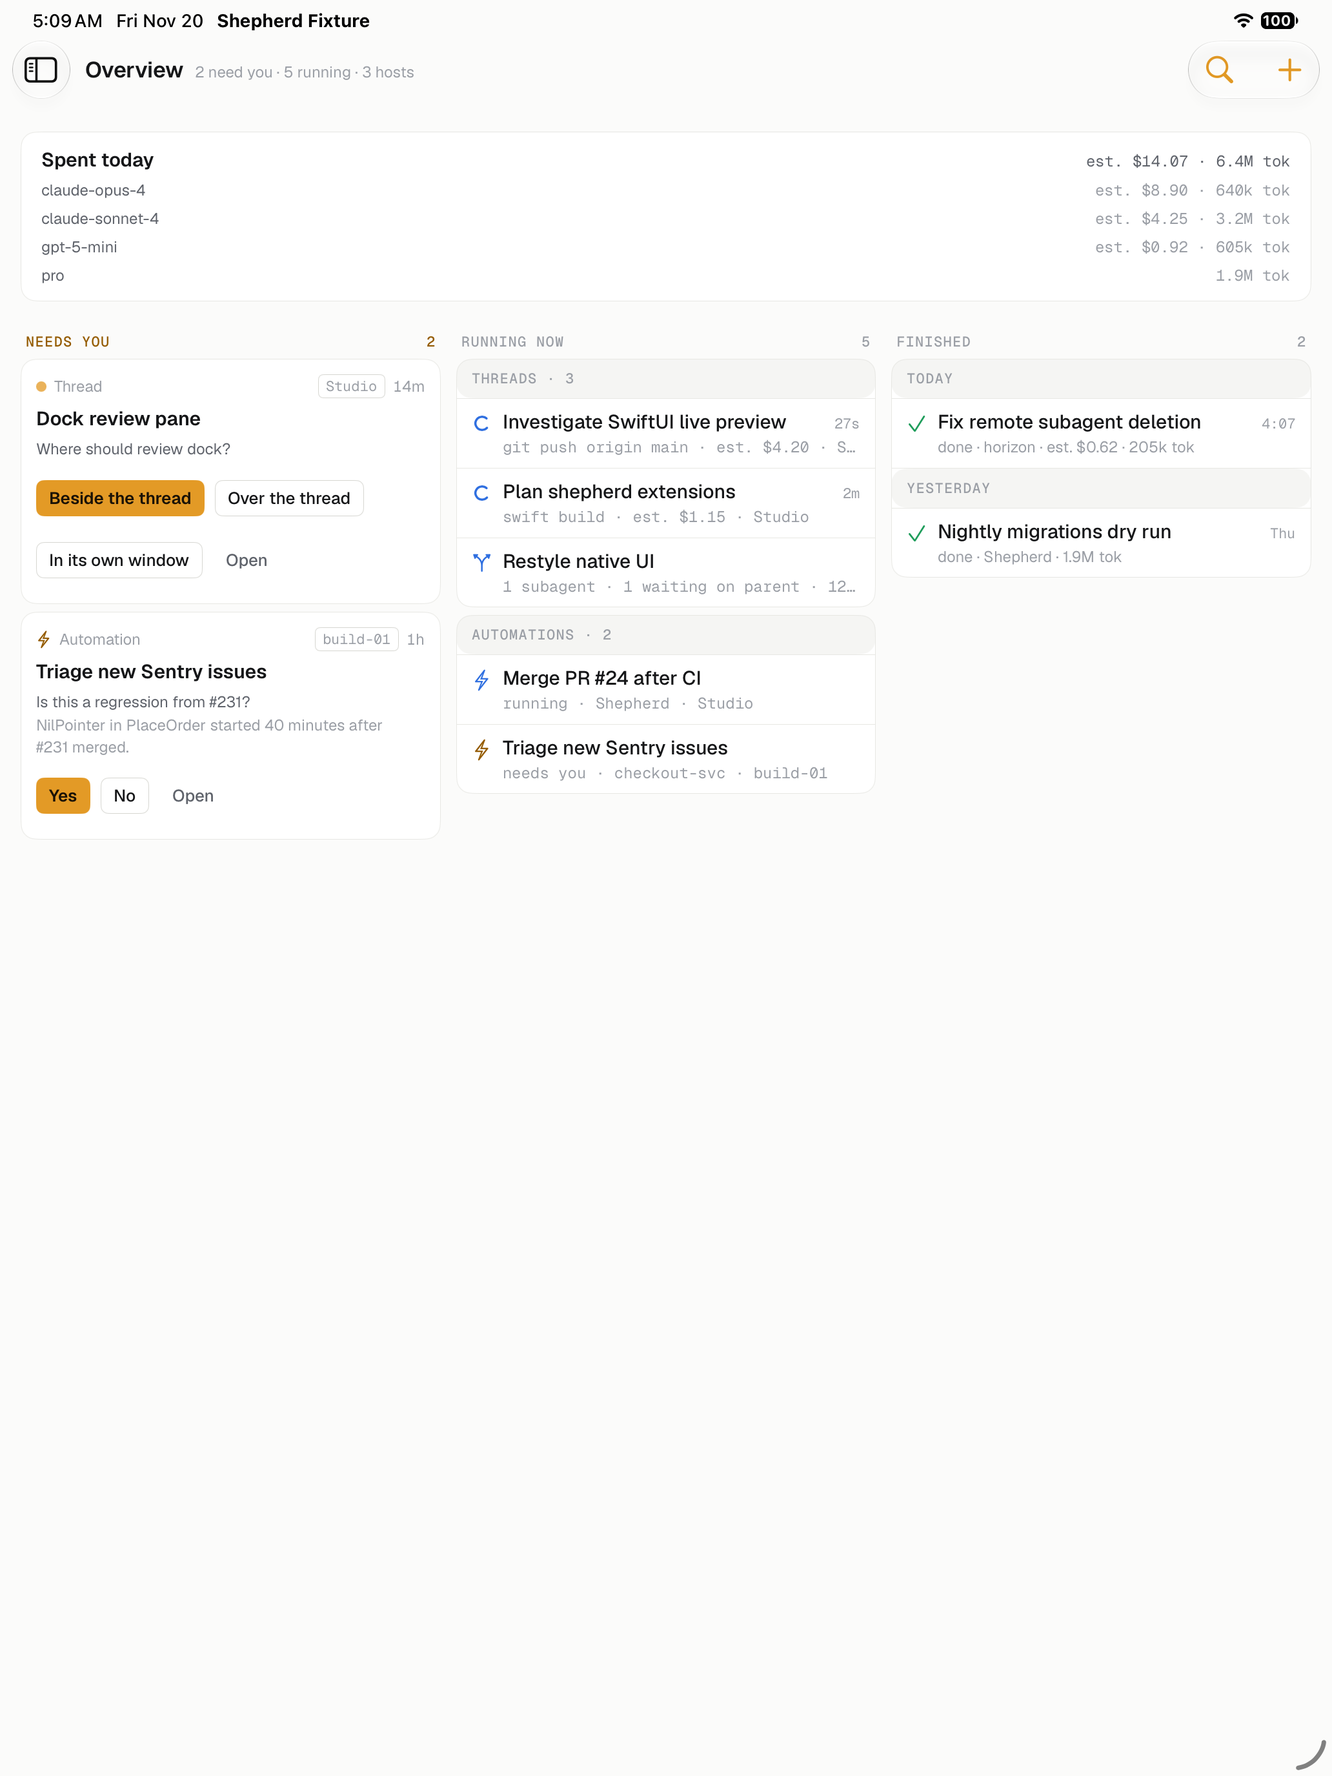
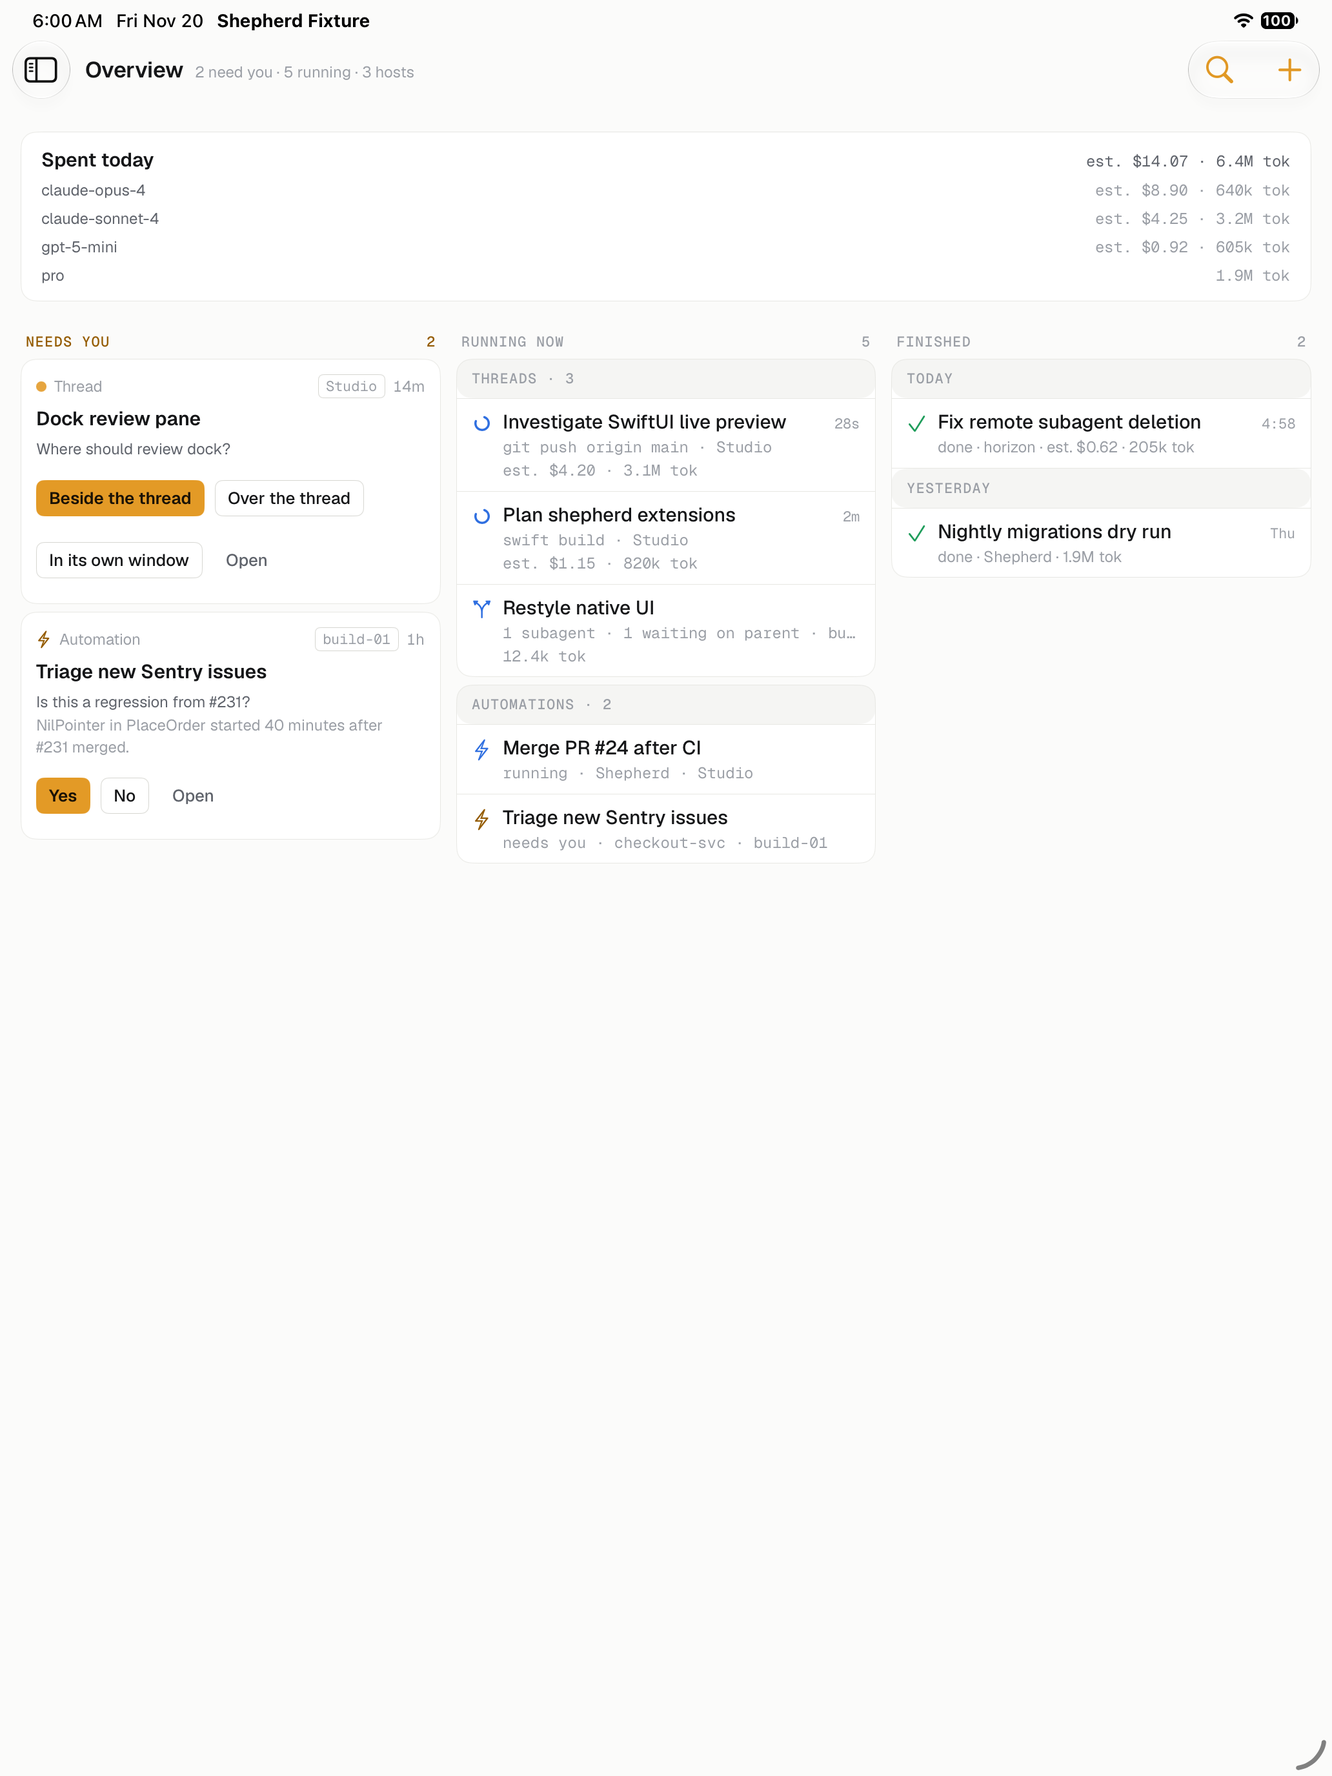
fix: count a subagent run that started and finished today, give spend its own line on iOS rows

Changed region(s): [[0.3411, 0.25, 0.5581, 0.4688]]

diff --git a/Packages/ShepherdUI/Sources/ShepherdUI/Components/Fleet/FleetParts.swift b/Packages/ShepherdUI/Sources/ShepherdUI/Components/Fleet/FleetParts.swift
@@ -139,6 +139,8 @@ public struct SHListRow: View, Equatable {
     let subtitle: String?
     let subtitleMono: Bool
     let subtitleTone: AgentState?
+    /// What the thread spent, on a line of its own under the status line.
+    let spend: String?
     let clock: SHRowClock?
     let leading: Leading
     let trailing: Trailing
@@ -153,12 +155,13 @@ public struct SHListRow: View, Equatable {
     /// moves the content in while the row (and its selection) keeps the full width (the iPad
     /// sidebar's More sub-rows).
     public init(_ title: String, subtitle: String? = nil, subtitleMono: Bool = true, subtitleTone: AgentState? = nil,
-                clock: SHRowClock? = nil, leading: Leading = .none, trailing: Trailing = .none, chevron: Bool = true,
+                spend: String? = nil, clock: SHRowClock? = nil, leading: Leading = .none, trailing: Trailing = .none, chevron: Bool = true,
                 selected: Bool = false, dimmed: Bool = false, compact: Bool = false, indent: CGFloat = 0) {
         self.title = title
         self.subtitle = subtitle
         self.subtitleMono = subtitleMono
         self.subtitleTone = subtitleTone
+        self.spend = spend
         self.clock = clock
         self.leading = leading
         self.trailing = trailing
@@ -170,7 +173,7 @@ public struct SHListRow: View, Equatable {
     }
 
     public nonisolated static func == (a: SHListRow, b: SHListRow) -> Bool {
-        a.title == b.title && a.subtitle == b.subtitle && a.subtitleMono == b.subtitleMono && a.subtitleTone == b.subtitleTone
+        a.title == b.title && a.subtitle == b.subtitle && a.subtitleMono == b.subtitleMono && a.subtitleTone == b.subtitleTone && a.spend == b.spend
             && a.clock == b.clock && a.leading == b.leading && a.trailing == b.trailing && a.chevron == b.chevron
             && a.selected == b.selected && a.dimmed == b.dimmed && a.compact == b.compact && a.indent == b.indent
     }
@@ -190,6 +193,10 @@ public struct SHListRow: View, Equatable {
                     statusLine
                         .font(subtitleMono ? .sh(.mono) : .sh(.caption))
                         .foregroundStyle(subtitleTone?.textColor ?? sh.textTertiary)
+                        .lineLimit(typeSize.isAccessibilitySize ? SHListMetrics.accessibilityStatusLines : 1)
+                }
+                if let spend {
+                    Text(spend).font(.sh(.mono)).foregroundStyle(sh.textTertiary)
                         .lineLimit(typeSize.isAccessibilitySize ? SHListMetrics.accessibilityStatusLines : 1)
                 }
                 // At accessibility sizes the accessory goes under the title, which keeps its width.
@@ -334,15 +341,18 @@ public struct SHOverviewRow: View, Equatable {
     let title: String
     let detail: String
     let detailMono: Bool
+    /// What the thread spent, on a line of its own under the detail.
+    let spend: String?
     let leading: SHListRow.Leading
     let time: Time
     let dimmed: Bool
 
-    public init(_ title: String, detail: String, detailMono: Bool = true, leading: SHListRow.Leading, time: Time = .none,
+    public init(_ title: String, detail: String, detailMono: Bool = true, spend: String? = nil, leading: SHListRow.Leading, time: Time = .none,
                 dimmed: Bool = false) {
         self.title = title
         self.detail = detail
         self.detailMono = detailMono
+        self.spend = spend
         self.leading = leading
         self.time = time
         self.dimmed = dimmed
@@ -362,6 +372,7 @@ public struct SHOverviewRow: View, Equatable {
                         .lineLimit(1).fixedSize()
                 }
                 Text(detail).font(detailMono ? .sh(.mono) : .sh(.caption)).foregroundStyle(sh.textTertiary).lineLimit(1)
+                if let spend { Text(spend).font(.sh(.mono)).foregroundStyle(sh.textTertiary).lineLimit(1) }
             }
         }
         .padding(.horizontal, SH.Space.l)

diff --git a/Sources/ShepherdCore/Spend.swift b/Sources/ShepherdCore/Spend.swift
@@ -39,15 +39,18 @@ public struct ChildUsage: Hashable, Sendable {
     public var model: String?
     public var tokens: Int?
     public var cost: Double?
-    /// The run has ended: seen for the first time, it is history rather than today's work.
+    /// The run has ended: seen for the first time, it is history unless it started today.
     public var finished: Bool
+    /// When the run started; nil when unknown, which a finished run's first sighting reads as history.
+    public var startedAt: Date?
 
-    public init(id: String, model: String?, tokens: Int?, cost: Double?, finished: Bool) {
+    public init(id: String, model: String?, tokens: Int?, cost: Double?, finished: Bool, startedAt: Date? = nil) {
         self.id = id
         self.model = model
         self.tokens = tokens
         self.cost = cost
         self.finished = finished
+        self.startedAt = startedAt
     }
 }
 
@@ -136,15 +139,17 @@ public struct AgentSpend: Codable, Hashable, Sendable {
     }
 
     /// The spend after the subagent runs' usage as the extension last published it: what each grew by since it was last seen
-    /// joins today, under the model the run uses. A run's first sighting counts whole while it runs and as history once it has
-    /// finished (it is a run from before this host knew the thread). Nothing is recorded before the thread's own baseline.
+    /// joins today, under the model the run uses. A run's first sighting counts whole while it runs, or when it has finished but
+    /// started today (it ran and ended between two publishes); a finished run from an earlier day is history (it is from before this
+    /// host knew the thread). Nothing is recorded before the thread's own baseline.
     public static func addingChildren(_ previous: AgentSpend?, _ runs: [ChildUsage], day: String, zone: String? = nil) -> AgentSpend? {
         guard var spend = previous else { return nil }
         spend.start(day, zone)
         for run in runs {
             guard let tokens = run.tokens else { continue }
             let known = spend.children[run.id]
-            if known != nil || !run.finished {
+            let startedToday = run.startedAt.map { SpendDay.key($0, zone: zone) == day } ?? false
+            if known != nil || !run.finished || startedToday {
                 let before = known ?? ChildSpend(tokens: 0, cost: nil)
                 spend.add(model: run.model, tokens: max(0, tokens - before.tokens), cost: run.cost.map { max(0, $0 - (before.cost ?? 0)) })
             }
@@ -316,12 +321,6 @@ public enum SpendFormat {
     /// A thread's whole session, for its sidebar row; nil while unknown.
     public static func line(_ spend: AgentSpend?) -> String? {
         spend.flatMap { line(tokens: $0.totalTokens, cost: $0.totalCost) }
-    }
-
-    /// The cost alone ("est. $4.20"), or the tokens when the thread has no cost: for a line with little room.
-    public static func brief(_ spend: AgentSpend?) -> String? {
-        guard let spend else { return nil }
-        return (spend.totalCost ?? 0) > 0 ? line(tokens: nil, cost: spend.totalCost) : line(tokens: spend.totalTokens, cost: nil)
     }
 
     /// A day's total, for a page header; nil when nothing was spent.

diff --git a/Sources/ShepherdRemote/Fleet.swift b/Sources/ShepherdRemote/Fleet.swift
@@ -207,18 +207,13 @@ public struct FleetThreadRow: Identifiable, Equatable, Sendable {
     public var design: FleetDesign?
     /// What the thread spent, as "est. $4.20 · 3.1M tok" (tokens alone with no cost); nil while unknown (`SpendFormat`).
     public var spend: String?
-    /// The same for a line with little room, a running thread's: the cost alone ("est. $4.20"), or the tokens when there is none.
-    public var spendBrief: String?
 
     public var id: FleetRef { ref }
 
     /// What a running thread does now, under its title in the overview (iPadOverview): the call
     /// running now, else its live subagents ("3 subagents · 1 waiting on parent"), with the host when
     /// rows from several hosts mix ("swift build · This Mac"); "running" when nothing says more.
-    public var now: String { running(withSpend: false) }
-
-    /// `now`, with what the thread spent (briefly) before the host, which is what gets cut when the line is long.
-    public func running(withSpend: Bool) -> String {
+    public var now: String {
         var parts: [String] = []
         if let activity {
             parts.append(activity)
@@ -226,14 +221,13 @@ public struct FleetThreadRow: Identifiable, Equatable, Sendable {
             parts.append(nativeCount(subagents, "subagent"))
             if subagentsAsking > 0 { parts.append("\(subagentsAsking) waiting on parent") }
         }
-        if withSpend, let spendBrief { parts.append(spendBrief) }
         if let hostTag { parts.append(hostTag) }
         return parts.isEmpty ? FleetModel.statusWord(status) : parts.joined(separator: " · ")
     }
 
     /// `line` with what the thread spent after it ("Running python · est. $4.20 · 3.1M tok"), as every row says its spend.
-    public func saying(spendAfter line: String, brief: Bool = false) -> String {
-        (brief ? spendBrief : spend).map { "\(line) · \($0)" } ?? line
+    public func saying(spendAfter line: String) -> String {
+        spend.map { "\(line) · \($0)" } ?? line
     }
 
     /// When it last moved (ms since epoch), for a finished thread's time and day.
@@ -630,7 +624,6 @@ public struct FleetModel: Equatable, Sendable {
         row.result = digest?.result
         row.session = digest?.session
         row.spend = SpendFormat.line(agent.spend)
-        row.spendBrief = SpendFormat.brief(agent.spend)
         return row
     }
 

diff --git a/Tests/ShepherdCoreUnitTests/SpendTests.swift b/Tests/ShepherdCoreUnitTests/SpendTests.swift
@@ -130,6 +130,24 @@ struct SpendTests {
         #expect(spend.today.map(\.tokens) == [160])
     }
 
+    @Test func aRunThatStartedAndFinishedTodayCountsOnceAndOneFromBeforeIsHistory() throws {
+        let sunday = Self.noon(Self.monday).addingTimeInterval(-86_400)
+        func run(_ id: String, startedAt: Date?) -> ChildUsage {
+            ChildUsage(id: id, model: "b/helper", tokens: 300, cost: 0.3, finished: true, startedAt: startedAt)
+        }
+        var spend = try #require(AgentSpend.updated(nil, tokens: 1_000, cost: 1, model: "a/one", day: Self.monday, zone: "UTC"))
+        // First reported already finished: it ran between two publishes, so it is today's work, once however often it is replayed.
+        for _ in 0..<3 {
+            spend = try #require(AgentSpend.addingChildren(spend, [run("new", startedAt: Self.noon(Self.monday))], day: Self.monday, zone: "UTC"))
+        }
+        #expect(spend.today.map(\.tokens) == [300])
+        #expect(abs((spend.today.first?.cost ?? 0) - 0.3) < 1e-9)
+        // Restored history (started the day before, or with no start known) still adds nothing.
+        spend = try #require(AgentSpend.addingChildren(spend, [run("old", startedAt: sunday), run("unknown", startedAt: nil)], day: Self.monday, zone: "UTC"))
+        #expect(spend.today.map(\.tokens) == [300])
+        #expect(spend.totalTokens == 1_900)
+    }
+
     @Test func aNewSessionForgetsTheOldSessionsSubagents() throws {
         var spend = try #require(AgentSpend.updated(nil, tokens: 1_000, cost: 1, model: "a/one", day: Self.monday, sessionID: "s1"))
         spend = try #require(AgentSpend.addingChildren(spend, [Self.run("r1", tokens: 300, cost: 0.3)], day: Self.monday))
@@ -228,9 +246,6 @@ struct SpendTests {
         #expect(SpendFormat.line(tokens: 0, cost: 0.001) == "est. <$0.01")
         #expect(SpendFormat.line(tokens: 0, cost: nil) == nil)
         #expect(SpendFormat.line(nil as AgentSpend?) == nil)
-        #expect(SpendFormat.brief(AgentSpend(tokens: 3_100_000, cost: 4.2, day: Self.monday)) == "est. $4.20")
-        #expect(SpendFormat.brief(AgentSpend(tokens: 12_400, cost: nil, day: Self.monday)) == "12.4k tok")
-        #expect(SpendFormat.brief(nil) == nil)
         #expect(SpendFormat.modelName("anthropic/claude-sonnet-4") == "claude-sonnet-4")
         #expect(SpendFormat.modelName(nil) == "Unknown model")
     }

diff --git a/App/iOS/Home/HomeRows.swift b/App/iOS/Home/HomeRows.swift
@@ -85,7 +85,7 @@ struct ThreadRow: View, Equatable {
     var body: some View {
         // The sidebar says a failed last turn (iPadThreadError): a failed dot and "failed".
         let failed = compact && row.failed
-        SHListRow(row.title, subtitle: compact ? nil : row.inboxLine, clock: compact ? nil : row.clock?.rowClock,
+        SHListRow(row.title, subtitle: compact ? nil : row.inboxLine, spend: compact ? nil : row.runningSpend, clock: compact ? nil : row.clock?.rowClock,
                   leading: row.design != nil ? .symbol("pencil.tip") : .state(failed ? .failed : AgentState(row.status)),
                   trailing: failed ? .meta("failed") : compact ? .none : row.hostTag.map { .host($0) } ?? .none,
                   chevron: false, selected: selected, dimmed: row.offline, compact: compact)
@@ -99,10 +99,13 @@ extension FleetThreadRow {
     /// "Thinking"), else the repo it works in, else what the host says of it, then what it spent.
     var inboxLine: String {
         if design != nil { return detail }
-        // A running thread's line is the busy one: its spend is the cost alone.
-        if status == .working, !offline { return saying(spendAfter: doing ?? place ?? detail, brief: true) }
+        // A running thread's line is the busy one (what it does, and a clock): its spend gets its own line.
+        if status == .working, !offline { return doing ?? place ?? detail }
         return saying(spendAfter: place ?? detail)
     }
+
+    /// A running thread's spend, drawn under its line.
+    var runningSpend: String? { design == nil && status == .working && !offline ? spend : nil }
 }
 
 /// Something waiting on you, as one row (Home's preview, the sidebar).

diff --git a/Tests/ShepherdSessionsIntegrationTests/SpendRecordingTests.swift b/Tests/ShepherdSessionsIntegrationTests/SpendRecordingTests.swift
@@ -81,10 +81,16 @@ struct SpendRecordingTests {
             host.server.recordChildSpend(agentID: id, runs: [run(300, 0.3)], now: monday)
             host.server.recordChildSpend(agentID: id, runs: [run(700, 0.7, state: "complete")], now: monday)
             host.server.recordChildSpend(agentID: id, runs: [run(700, 0.7, state: "complete")], now: monday)
+            // A run that started today and was first seen finished counts once; one that started yesterday is history.
+            let today = ChildRun(runID: "native-2", label: "worker: lint", state: "complete", startedAt: monday.timeIntervalSince1970 * 1000 - 60_000,
+                                 model: "acme/helper", tokens: 40, cost: 0.04)
+            let before = ChildRun(runID: "native-3", label: "worker: old", state: "complete", startedAt: monday.timeIntervalSince1970 * 1000 - 86_400_000,
+                                  model: "acme/helper", tokens: 9_000, cost: 9)
+            for _ in 0..<2 { host.server.recordChildSpend(agentID: id, runs: [run(700, 0.7, state: "complete"), today, before], now: monday) }
         }
         let recorded = try #require(spend())
-        #expect(recorded.today.first { $0.model == "acme/helper" }?.tokens == 700)
-        #expect(recorded.totalTokens == 1_700)
-        #expect(abs((recorded.totalCost ?? 0) - 1.7) < 1e-9)
+        #expect(recorded.today.first { $0.model == "acme/helper" }?.tokens == 740)
+        #expect(recorded.totalTokens == 10_740)
+        #expect(abs((recorded.totalCost ?? 0) - 10.74) < 1e-9)
     }
 }

diff --git a/Tests/ShepherdRemoteUnitTests/FleetOverviewTests.swift b/Tests/ShepherdRemoteUnitTests/FleetOverviewTests.swift
@@ -164,14 +164,10 @@ struct FleetSpendTodayTests {
         let unspent = rows.first { $0.ref.agent.rawValue == "none" }
         #expect(spent?.spend == "est. $4.20 · 3.1M tok")
         #expect(spent?.saying(spendAfter: "done · acme-web") == "done · acme-web · est. $4.20 · 3.1M tok")
-        #expect(spent?.spendBrief == "est. $4.20", "a line with little room says the cost alone")
-        #expect(spent?.saying(spendAfter: "Pushing", brief: true) == "Pushing · est. $4.20")
         #expect(unspent != nil && unspent?.spend == nil)
         #expect(unspent?.saying(spendAfter: "done") == "done")
         var running = FleetOverviewTests.row("one", activity: "swift build", host: "Studio")
-        #expect(running.running(withSpend: true) == "swift build · Studio")
-        running.spendBrief = "est. $4.20"
-        #expect(running.running(withSpend: true) == "swift build · est. $4.20 · Studio")
-        #expect(running.now == "swift build · Studio", "without the spend, as before")
+        running.spend = "12.4k tok"
+        #expect(running.now == "swift build · Studio", "a running row's spend is its own line, not part of this one")
     }
 }

diff --git a/Sources/ShepherdSessions/SessionServer.swift b/Sources/ShepherdSessions/SessionServer.swift
@@ -7174,7 +7174,8 @@ public final class SessionServer: @unchecked Sendable {
     /// cost of its own messages, not the history a fork inherited) joins the thread's spend once, by what each run grew by.
     func recordChildSpend(agentID: AgentID, runs: [ChildRun], now: Date = Date(), zone: TimeZone = .current) {
         guard let agent = store.state.agents.first(where: { $0.id == agentID }) else { return }
-        let usage = runs.map { ChildUsage(id: $0.id, model: $0.model, tokens: $0.tokens, cost: $0.cost, finished: $0.isTerminal) }
+        let usage = runs.map { ChildUsage(id: $0.id, model: $0.model, tokens: $0.tokens, cost: $0.cost, finished: $0.isTerminal,
+                                          startedAt: $0.startedAt.map { Date(timeIntervalSince1970: $0 / 1000) }) }
         let next = AgentSpend.addingChildren(agent.spend, usage, day: SpendDay.key(now, zone: zone.identifier), zone: zone.identifier)
         applySpend(next, to: agentID)
     }

diff --git a/Tests/ShepherdIOSChecks/Fixtures/HomeFixtures.swift b/Tests/ShepherdIOSChecks/Fixtures/HomeFixtures.swift
@@ -15,6 +15,11 @@ extension FixtureCatalog {
             FixtureScreen(name: "home-fleet", hosts: fleet, prepare: settle),
             // Home's header: what every host's threads spent today, per model (a thread of a subscription model has tokens alone).
             FixtureScreen(name: "home-spend", hosts: HomeFixtureData.spending(), prepare: settle),
+            // The Running filter lifts the working threads, each with its spend on a line of its own, above the fold.
+            FixtureScreen(name: "home-spend-running", hosts: HomeFixtureData.spending(), prepare: { app in
+                await settle(app)
+                SidebarThreads.of(app.hosts).filters = .init(chips: [.running])
+            }),
             FixtureScreen(name: "overview-spend", hosts: HomeFixtureData.spending(), prepare: { app in
                 await settle(app)
                 await OverviewOpenCheck.hideSidebar(app)

diff --git a/App/iOS/Home/PadOverview.swift b/App/iOS/Home/PadOverview.swift
@@ -146,7 +146,7 @@ private struct OverviewColumns: View {
     private func runningButton(_ row: FleetThreadRow) -> some View {
         let time: SHOverviewRow.Time = if case .elapsed(let since)? = row.clock { .elapsed(since: Date(milliseconds: since)) } else { .none }
         return Button { navigator.open(.thread(row.ref.agentRef)) } label: {
-            SHOverviewRow(row.title, detail: row.running(withSpend: true), leading: RunningGlyph.of(row), time: time, dimmed: row.offline)
+            SHOverviewRow(row.title, detail: row.now, spend: row.spend, leading: RunningGlyph.of(row), time: time, dimmed: row.offline)
                 .equatable()
         }
         .buttonStyle(.shRow(radius: 0))
